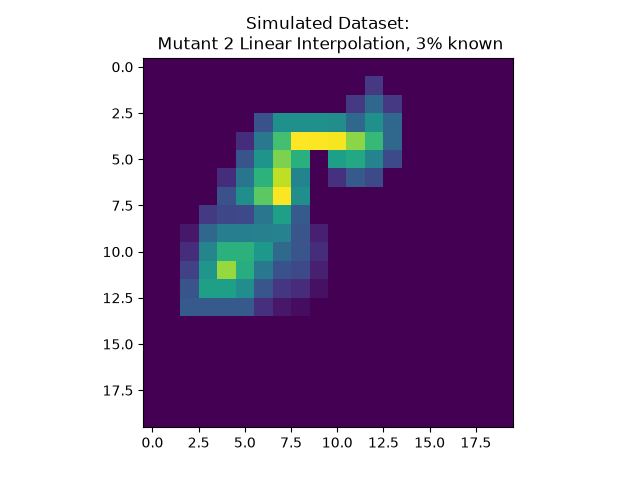
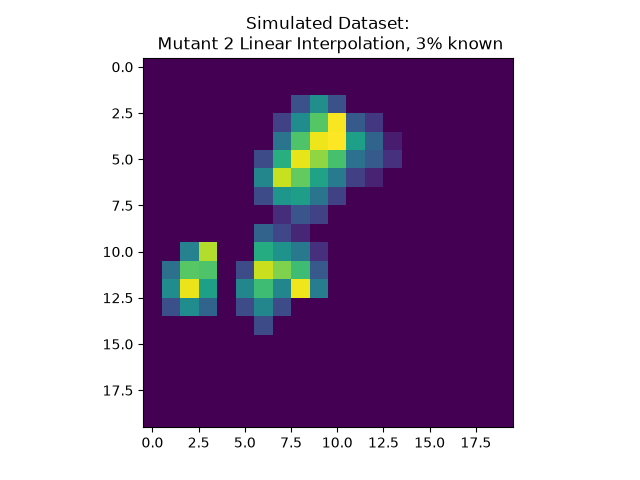
interpolation

Changed region(s): [[0.25, 0.1562, 0.625, 0.7188]]

diff --git a/data/simulated/interpolate.py b/data/simulated/interpolate.py
@@ -55,6 +55,16 @@ def get_clone_field(matrix_u, N, clone_idx=0, order="F"):
     return arr.reshape((N, N), order=order).T
 
 
+def mean_square_err(N,ground_truth,new,mask):
+    # Mean square error of non-masked values
+
+    invert = ~mask
+
+    mean = (ground_truth[invert]-new[invert])**2
+
+    print(mean.sum()/len(ground_truth[invert]))
+
+
 
 def main():
 
@@ -74,22 +84,30 @@ def main():
     # Make simulated grid
     grid,matrix_u,matrix_f,grid_plot = run_simulation(N,NORMAL_PURITY_THRESHOLD,phylogeny,seed=43,show_plot=False)
     matrix_u = np.array(matrix_u)
-    one = get_clone_field(matrix_u,N,1)
-    plt.imshow(one)
-    plt.title("Simulated Dataset: Mutant 2 ground truth")
-    plt.savefig("fig1")
-    plt.close()
 
-    mask = random_cell_mask(N,N,0.2)
+    one = get_clone_field(matrix_u,N,1)
+    mask = random_cell_mask(N,N,0.75)
 
     new = reconstruct_from_mask(one,mask,method="linear",clip_range=(0,1))
 
-    plt.imshow(new)
-    plt.title("Simulated Dataset:\n Mutant 2 Linear Interpolation, 3% known")
-    plt.savefig("fig5")
+    #print(mean_square_err(N,one,new,mask))
+
+
+    ONE = pd.DataFrame(one)
+
+
+    ONE[~mask] = np.nan
+
+    
+    row = ONE.interpolate(method='linear', limit_direction='both', axis=1)
+    col = ONE.interpolate(method='linear', limit_direction='both', axis=0)
+
+    avg = (row + col) / 2
+    
+    interpolated = np.array(avg)
+
+    plt.imshow(interpolated)
     plt.show()
-
-
 
 
 
